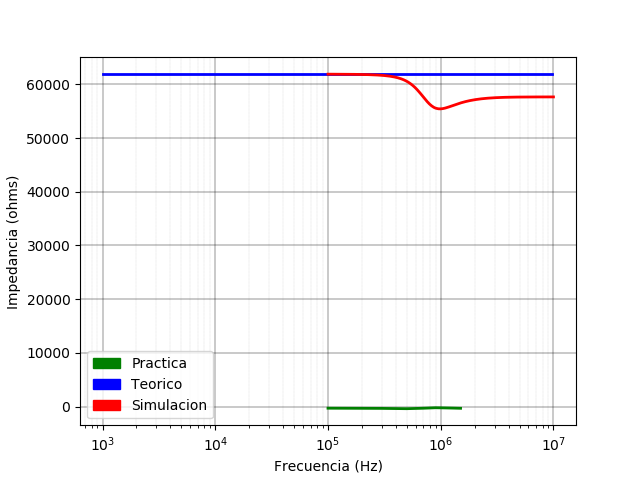
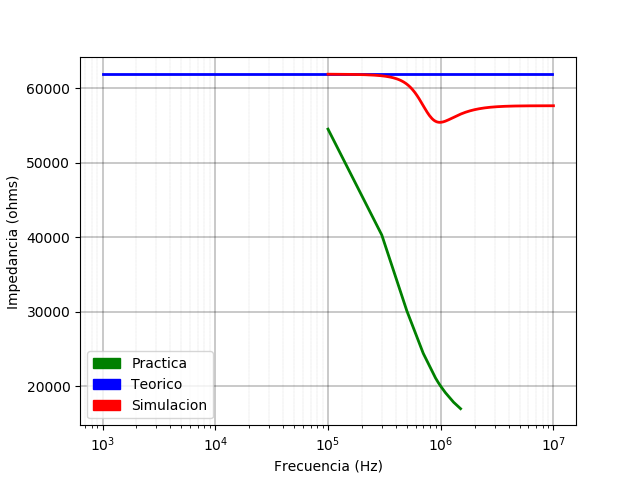
add

diff --git a/TP2/graficos/ejercicio1/bode_no_inv.py b/TP2/graficos/ejercicio1/bode_no_inv.py
@@ -127,7 +127,7 @@ def dibujar_bode(r1,r2,r3,r4,log_range, excel_filename, spice_filename ,output_f
 
     #### Practico #####
     # print (data_excel)
-    vin = data_excel["amp usada vpp"]
+    vin = data_excel["Vin"]
     vd = data_excel["vd"]
 
     zin = [vin[i] * r3 / (vin[i] - vd[i]) for i in range(len(vin))]
